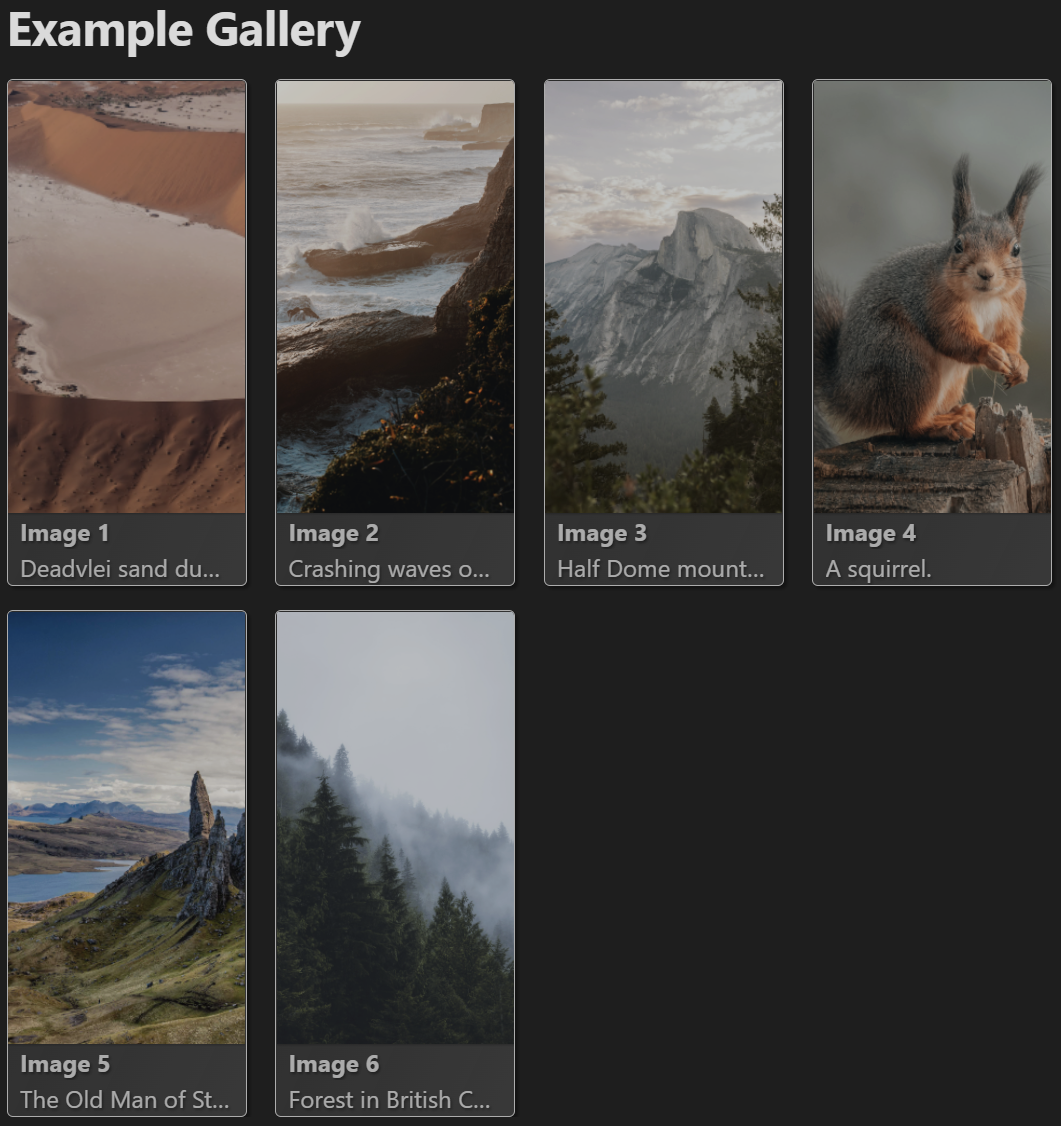
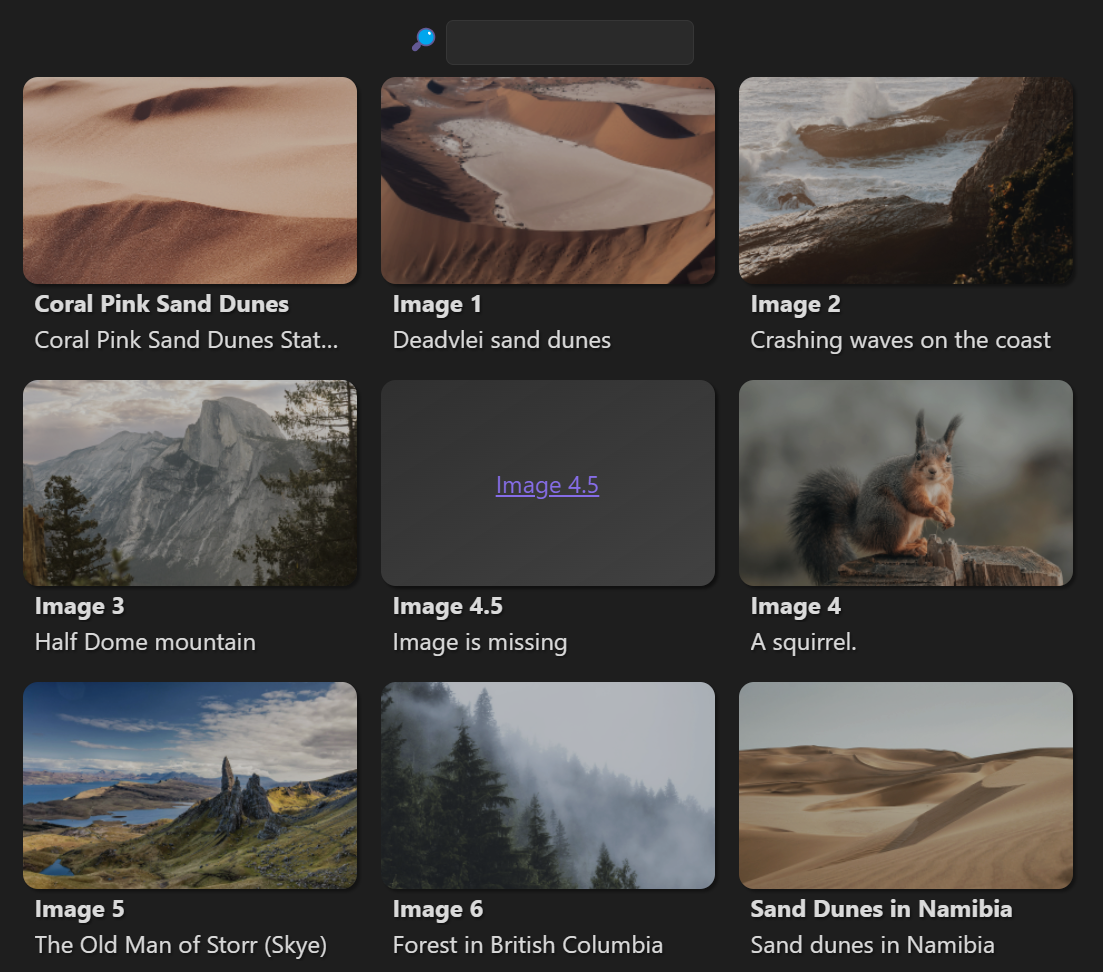
Updating example in README.

diff --git a/README.md b/README.md
@@ -15,8 +15,10 @@ to list pages and page metadata.
 Create a code block with type `page-gallery`:
 
 ```page-gallery
-from = '"Images" AND #gallery-image'
-fields = ["file.name", "Description"]
+from: '"Test Gallery"'
+orientation: landscape
+columns: 3
+fields: [file.name, Description]
 ```
 ![Example of the page-gallery plugin in use](./docs/example.png)
 
